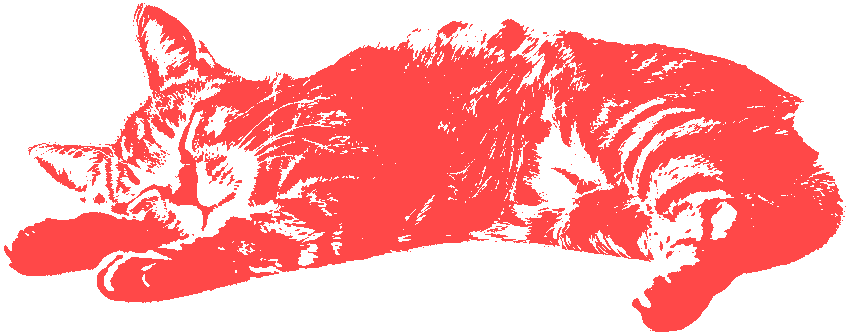
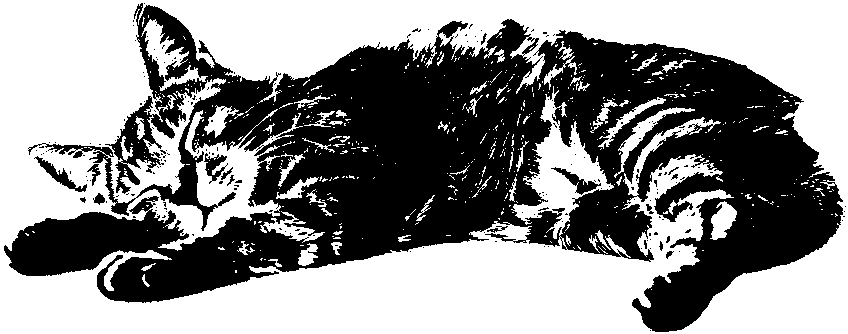
use black&white theme

diff --git a/site/style.css b/site/style.css
@@ -1,6 +1,6 @@
 body {
-	background-color: #776ecc;
-	color: white;
+	background-color: white;
+	color: black;
 	font-family: serif;
 	display: flex;
 	flex-direction: column;
@@ -21,14 +21,15 @@ h1, h2, h3, h4, h5, h6 {
 }
 
 a {
-	color: white;
+	color: black;
 	text-decoration: underline;
+	text-decoration-style: wavy;
 }
 
 a:hover {
 	cursor: url('/Images/cursor_grab.png'), auto;
-	color: #776ecc;
-	background-color: white;
+	color: white;
+	background-color: black;
 	text-decoration: none;
 }
 
